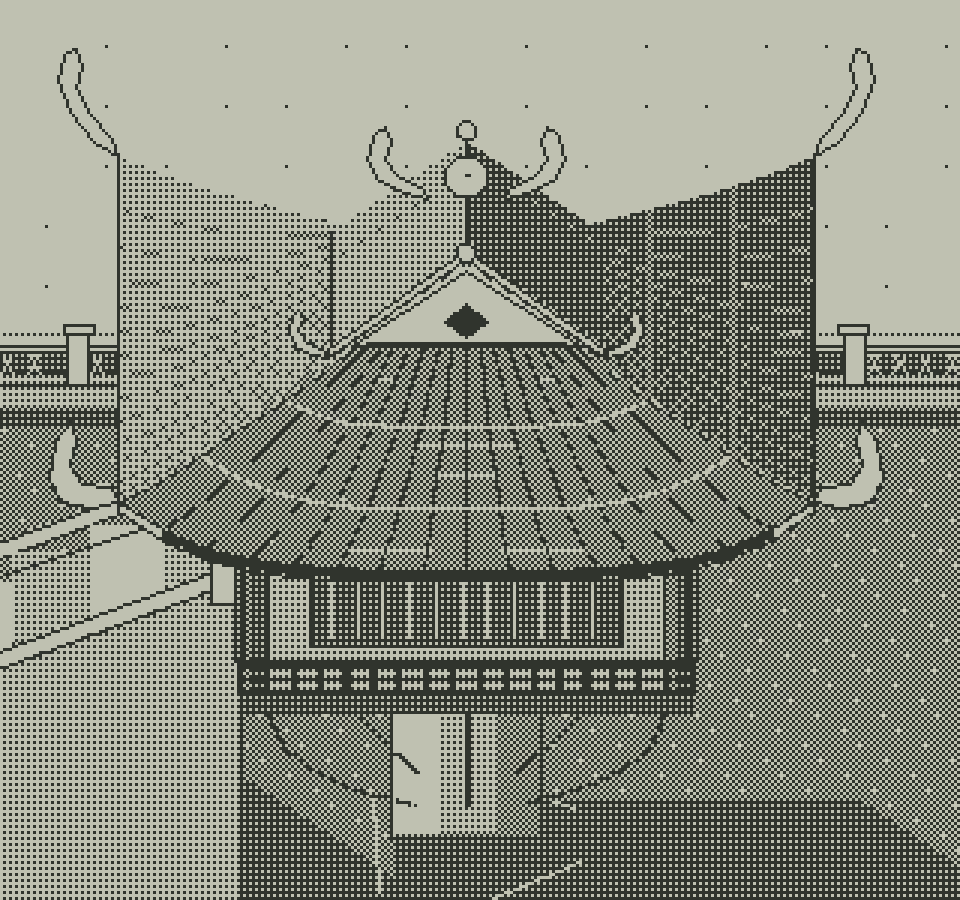
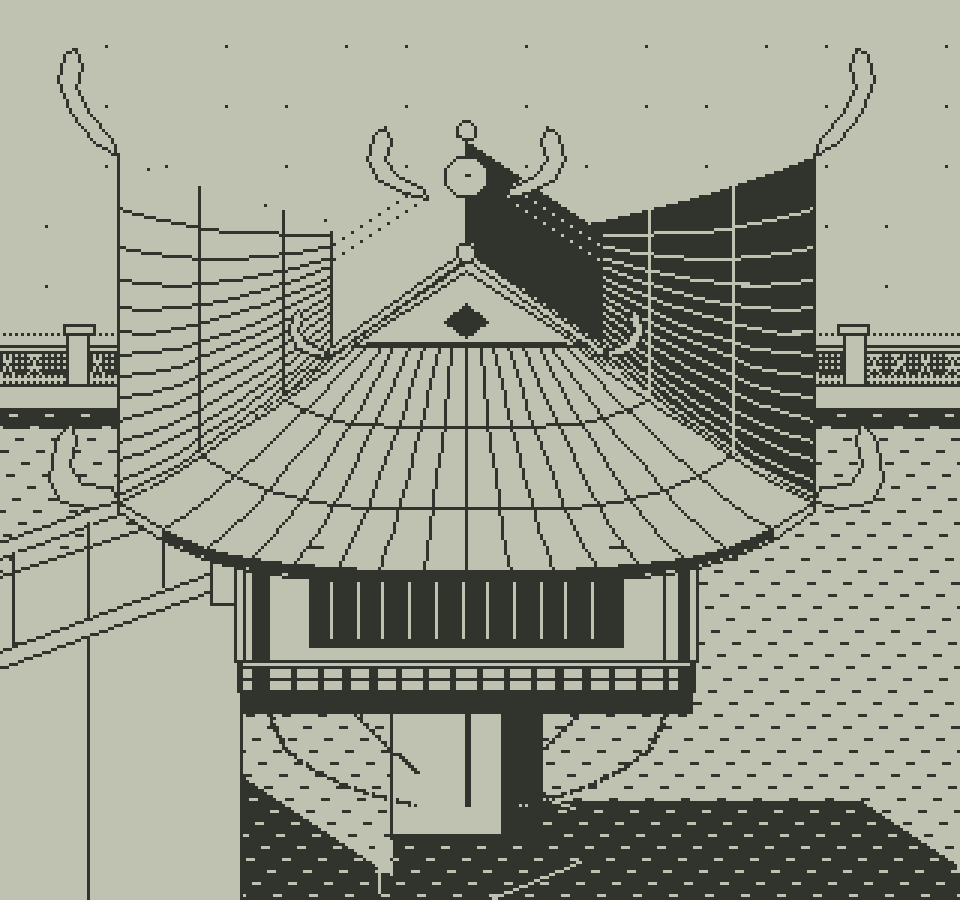
Keep the temple clean on phones and lay a long brick path
The pond, its shadows, the roof and the walls were broad fields of
1-pixel checker dither. Any uneven scaling (phones, shrunk screenshots)
turns those into moire blotches. Large temple surfaces now use solid
ink or paper with sparse lines: the water is paper with ink ripple
dashes, and water in shadow is ink with paper ripples (the Drone's
shadow on the water uses the same look). A test keeps checker pixels
under 3% of each large temple layer.

The path to the temple is now brick laid in running bond and runs from
the stairs' gate all the way to the west edge of the map.

Changed region(s): [[0.0, 0.1867, 1.0, 1.0]]

diff --git a/dist/index.html b/dist/index.html
@@ -1205,17 +1205,20 @@ function carPit(w,g){const c=w.car,q=pitOverlap(w.p,c,g);if(!q)return false;c.x+
 function conePit(o,g){const c=Math.cos(g.angle),s=Math.sin(g.angle),dx=o.x-g.x,dy=o.y-g.y,u=dx*c+dy*s,v=-dx*s+dy*c,r=bodyR(o),x=clamp(u,0,g.w),y=clamp(v,0,g.d);let nx=u-x,ny=v-y,d=Math.hypot(nx,ny),push;
  if(d>=r)return;if(d<1e-8){const faces=[[u,-1,0],[g.w-u,1,0],[v,0,-1],[g.d-v,0,1]].sort((a,b)=>a[0]-b[0]);nx=faces[0][1];ny=faces[0][2];push=r+faces[0][0];}else{nx/=d;ny/=d;push=r-d;}
  const X=nx*c-ny*s,Y=nx*s+ny*c;o.x+=X*(push+.01);o.y+=Y*(push+.01);const speed=o.vx*X+o.vy*Y;if(speed<0){o.vx-=(1+CONE_POST_E)*speed*X;o.vy-=(1+CONE_POST_E)*speed*Y;}}
-// The temple's ground paint (screen px, ink on paper): a swept stone apron round the pond with a dotted kerb, and a paved
-// walk west from the stairs' gate, with staggered joints and dotted gutters either side.
+// The temple's ground paint (screen px, ink on paper): a swept stone apron round the pond with a dotted kerb, and a long
+// brick path laid in running bond (courses along it, staggered joints) from the stairs' gate west to the arena's edge, with
+// solid kerbs and dotted gutters either side. Solid lines only, so it stays crisp at any scale.
+const TEMPLE_BRICK={course:6,len:14};
 function templeGround(gc,layout){
  const T=layout&&layout.temple;if(!T)return;const G=TEMPLE_GEO,s=T.s,o=templeOuter(T),X=u=>Math.round(T.x+u*s),Y=v=>Math.round((T.y+v*s)*K),dot=(x,y)=>gc.fillRect(x,y,1,1);
  const clear=(l,t,r,b)=>{gc.fillStyle=paper;gc.fillRect(l,t,r-l+1,b-t+1);gc.fillStyle=ink;};
  const Ua=o.u/s+G.apron,Va=o.v/s+G.apron,l=X(-Ua),r=X(Ua),t=Y(-Va),b=Y(Va);
  clear(l,t,r,b);for(let x=l;x<=r;x+=2){dot(x,t);dot(x,b);}for(let y=t;y<=b;y+=2){dot(l,y);dot(r,y);}
- const W0=G.walk,gut=W0.v+6,ue=-o.u/s,us=ue-W0.len,wt=Y(-W0.v),wb=Y(W0.v),x0=X(us),x1=X(ue);clear(x0,Y(-gut)-1,l+1,Y(gut)+1);
- for(let x=x0;x<=x1;x++){dot(x,wt);dot(x,wb);if(x%2===0){dot(x,Y(-gut));dot(x,Y(gut));}}for(let y=wt;y<=wb;y++)dot(x0,y);
- for(let k=0,u=us;u<ue-1e-6;k++,u+=12){const xa=X(u),xb=Math.min(x1,X(u+12));if(k)for(let y=wt+1;y<wb;y+=2)dot(xa,y);
-  for(const v of k%2?[-W0.v/2,W0.v/2]:[0])for(let x=xa;x<xb;x++)dot(x,Y(v));}
+ const W0=G.walk,B=TEMPLE_BRICK,gut=W0.v+6,ue=-o.u/s,us=-T.x/s,wt=Y(-W0.v),wb=Y(W0.v),x0=Math.max(0,X(us)),x1=X(ue);clear(x0,Y(-gut)-1,l+1,Y(gut)+1);
+ for(let x=x0;x<=x1;x++){dot(x,wt);dot(x,wb);if(x%2===0){dot(x,Y(-gut));dot(x,Y(gut));}}
+ const rows=Math.max(1,Math.round(2*W0.v/B.course)),rv=k=>-W0.v+k*2*W0.v/rows;
+ for(let k=1;k<rows;k++){const y=Y(rv(k));for(let x=x0;x<=x1;x++)dot(x,y);}
+ for(let k=0;k<rows;k++){const ya=Y(rv(k)),yb=Y(rv(k+1));for(let u=ue-(k%2?B.len/2:B.len);u>us;u-=B.len){const x=X(u);if(x<x0)break;for(let y=ya+1;y<yb;y++)dot(x,y);}}
 }
 function drawGround(gc,A,layout){
  const W=A.W,H=A.H,dot=(x,y)=>gc.fillRect(x,y,1,1);
@@ -2577,9 +2580,11 @@ function pitDrawables(w){const g=pitStopGeometry(w.arena,w.layout);if(!g)return 
 // The temple's layers, raw rasters sharing one anchor (ax, ay) at the pond centre's ground point, each sorted at its own front
 // ground line: pond (coping, water, the shadows on the water, back and side fences; at the back fence), stairs (at their
 // south wall), pavilion (pillar, struts, shrine and roofs; at the veranda's front), front (the front fence) and shadow (the
-// fence's shadow on the ground). Two inks only: stone is paper with dotted joints, the water the middle dither with
-// paper glints (a darker dither in shadow), lacquered wood the dark dither with paper lattice, roof tiles the middle dither
-// with ink channels, gilt and plaster paper with ink outlines; faces toward the light (up-left) a step lighter.
+// fence's shadow on the ground). Two inks only. Large surfaces use solid ink or paper with sparse lines, never a fine
+// dither: a 1-px checker over a big area breaks into moire blotches whenever the view is scaled by an uneven factor (phones,
+// shrunk screenshots). The water is paper with ink ripple dashes, and water in shadow the inverse (ink with paper dashes);
+// lacquered wood and shaded roof slopes are ink with paper lines, lit slopes and stone paper with ink lines; fine dithers are
+// kept to small trims.
 const TEMPLE_LAYERS=['pond','stairs','pavilion','front','shadow'];
 function templeArt(T){
  const G=TEMPLE_GEO,s=T.s,size=Math.ceil(520*s)+40,ax=Math.ceil(240*s)+20,ay=Math.ceil(200*s)+20,L={};
@@ -2612,14 +2617,15 @@ function templeArt(T){
 
  // Pond: the stone coping, the back wall's inner face, the water with glints, the shadows cast on the water, the front coping.
  flat(pond,-U-Rm,U+Rm,-V-Rm,V+Rm,Pd.coping,1);
- for(let u=-U+20;u<U;u+=40){line(pond,[u,-V-Rm,Pd.coping],[u,-V,Pd.coping],.5);}
- face(pond,-U,U,-V,Pd.water,Pd.coping,.75);
+ for(let u=-U+20;u<U;u+=40){line(pond,[u,-V-Rm,Pd.coping],[u,-V,Pd.coping],0);}
+ face(pond,-U,U,-V,Pd.water,Pd.coping,1);
  const w0=P(-U,-V,Pd.water),w1=P(U,V,Pd.water),wl=Math.ceil(w0[0]),wr=Math.floor(w1[0]),wt=Math.ceil(w0[1]),wb=Math.floor(w1[1]);
- flat(pond,-U,U,-V,V,Pd.water,.5,false);
- for(let y=wt+2;y<wb;y+=5)for(let x=wl+1;x<wr;x++)if((x*7+Math.floor(y/5)*29)%31<3)pond.pixel(x,y,1);
+ // Ripple dashes 3 px long every 4th row, staggered: the same pattern in lit water (ink on paper) and in shade (paper on ink).
+ const ripple=(x,y)=>(y-wt)%4===2&&(x+5*Math.floor((y-wt)/4))%12<3,water=(x,y,shade)=>pond.pixel(x,y,ripple(x,y)===!shade?0:1);
+ for(let y=wt;y<=wb;y++)for(let x=wl;x<=wr;x++)water(x,y,false);
  // Shadows on the water (light from the up-left): onto the water plane, in a darker dither than the water itself.
  const W=(u,v,z)=>{const p=P(u,v,Pd.water);return [p[0]+LIGHT.x*(z-Pd.water)*s,p[1]+LIGHT.y*(z-Pd.water)*s];};
- const shaded=new Uint8Array(size*size),onWater=(x,y)=>{if(x>=wl&&x<=wr&&y>=wt&&y<=wb){pond.pixel(x,y,.25);shaded[y*size+x]=1;}};
+ const shaded=new Uint8Array(size*size),onWater=(x,y)=>{if(x>=wl&&x<=wr&&y>=wt&&y<=wb){water(x,y,true);shaded[y*size+x]=1;}};
  const cast=pts=>pond.poly(hull(pts.map(q=>W(...q))),0,false,onWater);
  const R=G.roof,Gb=G.gable,fl=G.floor,st=G.stairs,pl=G.pillar;
  cast(box3(-pl.r,pl.r,-pl.r,pl.r,Pd.water,pl.z));cast(box3(-fl.u,fl.u,-fl.u,fl.u,pl.z,R.z));
@@ -2627,8 +2633,8 @@ function templeArt(T){
  cast([[-U,-st.wall,Pd.water],[-U,st.wall,Pd.water],[-U,-st.wall,8],[-U,st.wall,8],[st.u1,-st.wall,Pd.water],[st.u1,st.wall,Pd.water],[st.u1,-st.wall,fl.z+8],[st.u1,st.wall,fl.z+8]]);
  for(const [u0,u1,v0,v1] of [[-uf,uf,-vf-1,-vf+1],[-uf-1,-uf+1,-vf,vf]])cast(box3(u0,u1,v0,v1,Pd.coping,F.post));
  for(const u of [-U-Rm,U])flat(pond,u,u+Rm,-V-Rm,V+Rm,Pd.coping,1);
- flat(pond,-U-Rm,U+Rm,V,V+Rm,Pd.coping,1);face(pond,-U-Rm,U+Rm,V+Rm,0,Pd.coping,.75);
- for(let u=-U+20;u<U;u+=40)line(pond,[u,V,Pd.coping],[u,V+Rm,Pd.coping],.5);
+ flat(pond,-U-Rm,U+Rm,V,V+Rm,Pd.coping,1);face(pond,-U-Rm,U+Rm,V+Rm,0,Pd.coping,1);
+ for(let u=-U+20;u<U;u+=40)line(pond,[u,V,Pd.coping],[u,V+Rm,Pd.coping],0);
  // Back and side fences.
  fence(pond,-uf,uf,-vf,{l:1,r:1});sideFence(pond,-uf,-vf,-F.gap);sideFence(pond,-uf,F.gap,vf);sideFence(pond,uf,-vf,vf);
 
@@ -2640,19 +2646,19 @@ function templeArt(T){
  for(const [du,dv] of [[-1,-1],[1,-1],[0,-1]])strut(pv,[du*pl.r*.7,dv*pl.r*.7,pl.z*.2],[du*reach,dv*reach,pl.z]);
  for(let k=0;k<3;k++){const a=k*TAU/3+.3;line(pv,[Math.cos(a)*pl.r*1.6,Math.sin(a)*pl.r*1.6,Pd.water],[Math.cos(a+1.4)*pl.r*1.6,Math.sin(a+1.4)*pl.r*1.6,Pd.water],1);}
  const col=(u0,u1,shade)=>poly(pv,[[u0,0,Pd.water],[u1,0,Pd.water],[u1,0,pl.z],[u0,0,pl.z]],shade,false);
- col(-pl.r,pl.r,.75);col(-pl.r,-pl.r*.35,1);col(pl.r*.4,pl.r,.5);
- for(const u of [-pl.r,pl.r])line(pv,[u,0,Pd.water],[u,0,pl.z]);for(const z of [Pd.water+1,pl.z-4])line(pv,[-pl.r,0,z],[pl.r,0,z],.5);
+ col(-pl.r,pl.r,1);col(pl.r*.45,pl.r,0);
+ for(const u of [-pl.r,pl.r])line(pv,[u,0,Pd.water],[u,0,pl.z]);for(const z of [Pd.water+1,pl.z-4])line(pv,[-pl.r,0,z],[pl.r,0,z],0);
  for(const [du,dv] of [[-1,0],[1,0],[-1,1],[1,1],[0,1]])strut(pv,[du*pl.r*.7,dv*pl.r*.7,pl.z*.2],[du*reach,dv*reach,pl.z]);
 
  // The shrine: floor, back columns, the lattice room, front columns, and the veranda railing (open where the stairs arrive).
- flat(pv,-fl.u,fl.u,-fl.u,fl.u,fl.z,.75);face(pv,-fl.u,fl.u,fl.u,pl.z,fl.z,.25);
- const C=G.column,post=(u,v,z0,z1)=>{face(pv,u-C.r,u+C.r,v+C.r,z0,z1,.25,false);face(pv,u-C.r,u-C.r*.2,v+C.r,z0,z1,.5,false);line(pv,[u-C.r,v+C.r,z0],[u-C.r,v+C.r,z1]);line(pv,[u+C.r,v+C.r,z0],[u+C.r,v+C.r,z1]);};
+ flat(pv,-fl.u,fl.u,-fl.u,fl.u,fl.z,1);face(pv,-fl.u,fl.u,fl.u,pl.z,fl.z,0);
+ const C=G.column,post=(u,v,z0,z1)=>{face(pv,u-C.r,u+C.r,v+C.r,z0,z1,0,false);face(pv,u-C.r,u-C.r*.2,v+C.r,z0,z1,1,false);line(pv,[u-C.r,v+C.r,z0],[u-C.r,v+C.r,z1]);line(pv,[u+C.r,v+C.r,z0],[u+C.r,v+C.r,z1]);};
  for(const u of [-C.u,C.u])post(u,-C.u,fl.z,R.z);
- const rm=G.room;face(pv,-rm.u,rm.u,rm.u,fl.z,rm.z,.25);
+ const rm=G.room;face(pv,-rm.u,rm.u,rm.u,fl.z,rm.z,0);
  for(let u=-rm.u+5;u<rm.u-2;u+=6)line(pv,[u,rm.u+.2,fl.z+3],[u,rm.u+.2,rm.z-8],1);line(pv,[-rm.u+2,rm.u+.2,rm.z-5],[rm.u-2,rm.u+.2,rm.z-5],1);
  for(const u of [-C.u,C.u])post(u,C.u,fl.z,R.z);
- const fz=fl.z,rail=(u0,u1)=>{face(pv,u0,u1,fl.u,fz+7,fz+9,.25);line(pv,[u0,fl.u+.1,fz+4],[u1,fl.u+.1,fz+4]);for(let u=u0;u<=u1+1e-6;u+=(u1-u0)/Math.max(1,Math.round((u1-u0)/6)))face(pv,u-.8,u+.8,fl.u+.1,fz,fz+7,0,false);};
- rail(-fl.u,fl.u);for(const u of [-fl.u,fl.u])flat(pv,u-1,u+1,-fl.u,fl.u,fz+9,.25);
+ const fz=fl.z,rail=(u0,u1)=>{face(pv,u0,u1,fl.u,fz+7,fz+9,1);line(pv,[u0,fl.u+.1,fz+4],[u1,fl.u+.1,fz+4]);for(let u=u0;u<=u1+1e-6;u+=(u1-u0)/Math.max(1,Math.round((u1-u0)/6)))face(pv,u-.8,u+.8,fl.u+.1,fz,fz+7,0,false);};
+ rail(-fl.u,fl.u);for(const u of [-fl.u,fl.u])flat(pv,u-1,u+1,-fl.u,fl.u,fz+9,1);
 
  // Lower roof: a hip roof whose slopes curve up from the curled eaves (z grows as t^1.5) to the base of the gable roof.
  // Each slope is a grid of quads from its eave edge e(a) to its top edge r(a), a in -1..1.
@@ -2664,19 +2670,19 @@ function templeArt(T){
  const M=16,N=8,slope=(f,shade,channels)=>{
   for(let i=0;i<M;i++)for(let j=0;j<N;j++){const a0=-1+2*i/M,a1=-1+2*(i+1)/M,t0=j/N,t1=(j+1)/N;poly(pv,[at(f,a0,t0),at(f,a1,t0),at(f,a1,t1),at(f,a0,t1)],shade,false);}
   if(channels!==null)for(let i=1;i<M;i++){const a=-1+2*i/M;for(let j=0;j<N;j++)line(pv,at(f,a,j/N),at(f,a,(j+1)/N),channels);}
-  for(const t of [.35,.7])for(let i=0;i<M;i++)line(pv,at(f,-1+2*i/M,t),at(f,-1+2*(i+1)/M,t),shade<.5?.5:1);
+  for(const t of [.35,.7])for(let i=0;i<M;i++)line(pv,at(f,-1+2*i/M,t),at(f,-1+2*(i+1)/M,t),shade<.5?1:0);
   for(let i=0;i<M;i++)line(pv,at(f,-1+2*i/M,0),at(f,-1+2*(i+1)/M,0));};
  const rib=(f,a)=>{for(let j=0;j<N;j++){const p=P(...at(f,a,j/N)),q=P(...at(f,a,(j+1)/N));pv.line(p,q,1);pv.line([p[0]-Math.sign(a),p[1]],[q[0]-Math.sign(a),q[1]],0);}};
- slope(slopes.back,.25,null);
+ slope(slopes.back,0,null);
  for(const k of [-1,1])horn(pv,[k*R.u,-R.v,curl(1)],k,-.7,1.7);
- slope(slopes.west,.75,.5);slope(slopes.east,.25,.5);
+ slope(slopes.west,1,0);slope(slopes.east,0,1);
 
  // Gable roof on top: its two slopes, the plastered front gable with a dark medallion, and paper bargeboards.
  const g0=R.tz-2,gw=Gb.u,gs=(k,shade,channels)=>{const n=8;for(let i=0;i<n;i++){const v0=-Gb.v+2*Gb.v*i/n,v1=-Gb.v+2*Gb.v*(i+1)/n;
    poly(pv,[[k*gw,v0,g0],[k*gw,v1,g0],[0,v1,Gb.z],[0,v0,Gb.z]],shade,false);if(channels!==null)line(pv,[k*gw,v1,g0],[0,v1,Gb.z],channels);}
   line(pv,[k*gw,-Gb.v,g0],[k*gw,Gb.v,g0]);};
- gs(-1,.75,.5);gs(1,.25,.5);
- slope(slopes.front,.5,0);
+ gs(-1,1,0);gs(1,0,1);
+ slope(slopes.front,1,0);
  for(const a of [-1,1])rib(slopes.front,a);
  for(let i=0;i<M;i++){const a0=-1+2*i/M,a1=-1+2*(i+1)/M,p=at(slopes.front,a0,0),q=at(slopes.front,a1,0);poly(pv,[p,q,[q[0],q[1],q[2]-3],[p[0],p[1],p[2]-3]],Math.abs(a0+a1)>1.7?1:0);}
  for(const k of [-1,1])horn(pv,[k*R.u,R.v,curl(1)],k,.7,1.95);
@@ -2694,21 +2700,21 @@ function templeArt(T){
  const u0=-U-Rm,u1=st.u1,zt=fl.z,run=u1-u0,d=run/st.n,rise=zt/st.n,parapet=(v0,v1)=>poly(sr,[[u0,v0,8],[u1,v0,zt+8],[u1,v1,zt+8],[u0,v1,8]],1);
  const ends=v=>{for(const [u,z] of [[u0+3.5,0],[u1-3.5,zt]]){face(sr,u-3,u+3,v+3,z,z+14,1);ball(sr,u,v+3.1,z+14,3);}};
  parapet(-st.wall,-st.v);ends(-(st.wall+st.v)/2);
- for(let k=0;k<st.n;k++){const a=u0+k*d,z=(k+1)*rise;flat(sr,a,a+d,-st.v,st.v,z,k%2?.75:1,false);}
+ for(let k=0;k<st.n;k++){const a=u0+k*d,z=(k+1)*rise;flat(sr,a,a+d,-st.v,st.v,z,1,false);line(sr,[a,-st.v,z],[a,st.v,z]);}
  line(sr,[u0,-st.v,rise],[u1,-st.v,zt]);
  parapet(st.v,st.wall);
- poly(sr,[[u0,st.wall,0],[-U,st.wall,0],[-U,st.wall,Pd.water],[u1,st.wall,Pd.water],[u1,st.wall,zt+8],[u0,st.wall,8]],.75);
- for(let k=1;k<5;k++){const f=k/5,a=u0+run*f;line(sr,[a,st.wall+.1,Pd.water+1],[a,st.wall+.1,8+zt*f-1],.5);}
+ poly(sr,[[u0,st.wall,0],[-U,st.wall,0],[-U,st.wall,Pd.water],[u1,st.wall,Pd.water],[u1,st.wall,zt+8],[u0,st.wall,8]],1);
+ for(let k=1;k<5;k++){const f=k/5,a=u0+run*f;line(sr,[a,st.wall+.1,Pd.water+1],[a,st.wall+.1,8+zt*f-1],0);}
  ends((st.wall+st.v)/2);
 
  // Front fence, and the ball-topped posts either side of the stairs' gate in the west fence.
  fence(front,-uf,uf,vf,{l:1,r:1});
  for(const v of [-F.gap,F.gap]){face(pond,-uf-3.5,-uf+3.5,v+3.5,0,F.post+2,1);ball(pond,-uf,v+3.6,F.post+2,3.2);}
 
- // waterShade: the open water (not under the coping, not already in the temple's shadow) in the shade dither. draw() shows
+ // waterShade: the open water (not under the coping, not already in the temple's shadow) in its shaded look. draw() shows
  // it through a flying Drone's shadow, so the shadow falls on the pond but adds nothing where the temple already shades it.
  const ws=raster(size,ax,ay),wsb=Math.min(wb,Math.floor(P(0,V,Pd.coping)[1])-1);
- for(let y=wt;y<=wsb;y++)for(let x=wl;x<=wr;x++)if(!shaded[y*size+x])ws.pixel(x,y,.25);
+ for(let y=wt;y<=wsb;y++)for(let x=wl;x<=wr;x++)if(!shaded[y*size+x])ws.pixel(x,y,ripple(x,y)?1:0);
  const out={ax,ay,waterShade:ws.finish(true)};for(const k of TEMPLE_LAYERS)out[k]=L[k].finish(true);return out;
 }
 function templeDrawables(w){const T=w.layout&&w.layout.temple;if(!T)return [];const G=TEMPLE_GEO,P=G.pond,x=Math.round(T.x),y=Math.round(T.y*K),at=v=>Math.round((T.y+v*T.s)*K);
@@ -2826,7 +2832,7 @@ if(typeof document==='undefined'){if(typeof module!=='undefined'){
  module.exports={BURN_SPEED,GEARS,AUTO_GEARS,MANUAL_GEARS,PADDLE_GEARS,PADDLE_SEQ,isPaddle,REV_SHIFT,SHIFT_AT,isManual,shiftOk,gearStep,gearName,shiftGear,gearTelemetry,WIDTH,HEIGHT,K,Z,WORLD_H,STEP,SIM_SPEED,TAU,PRESETS,CAR_ART,FRAMES,SHADOW_INK,LIGHT,DEFAULT_ARENA,edgeClear,CROSS_GAP,carBoxAll,SPAWN_INSIDE,CONE_COUNT,CONE_R,CONTROL_ZONES,keepOuts,layoutCourse,drawGround,resetCones,TRANSFER_MARGIN,CONE_BOX,transferBody,transferEdges,sceneItems,carDrawable,mobileCarArtScale,scaleArtBox,portraitCarArt,carArtBox,gateDrawables,drawOrder,SKID,createTrackRecorder,breakTracks,recordTracks,coneSprite,coneShadowSprite,CONE_H,archShape,inArch,gateArt,GATE_SPLIT,GATE_FRONT,plotLine,frameIndex,carModel,carShadowPolys,frameBounds,spriteBox,raster,carSprite,carShadow,buildCarAtlases,makeArena,normalizeInput,keysToInput,carScreenBounds,resizeWorld,wrap,delta,angleDelta,createWorld,drive,step,carCone,coneCone,position,wheelPoints,SPEED_CAP,OMEGA_MAX,CONE_MAX,FASTEST,SUB_MOVE,gatePosts,carPost,conePost,substeps,limitVelocity,ROLL_STEPS,ROLL_G,LOAD_W,LOAD_ZETA,IMPACT_GAIN,TIP_COMMIT,TIP_DROP,TIP_MIN,TIP_SOFT,ROLL_SPIN,ROLL_DECEL,ROLL_SETTLE,ROLL_FRICTION,REST_SPEED,RECOVER_TIME,RECOVER_GAP,CAR_STATES,uprightState,rollKappa,tipAngle,tumble,rollover,rollFrame,rolledModel,rollShadowPolys,rollSpritePoints,rollFrameBounds,rollSpriteBox,carRollSprite,carRollShadow,carHidden,canRecover,recover,recoverSpot,boxDistance};
  Object.assign(module.exports,{raceRoute,raceProject,raceCross,raceNew,raceMove,raceTime,raceRank,raceBetter,raceFingerprint,raceRecords,raceSave,RACE_VERSION});
  Object.assign(module.exports,{setTrack,TUNING,TUNING_SPEC,TUNING_DEFAULTS,setTuning,resetTuning}); // shared tuning interface
- Object.assign(module.exports,{canvasRendering,LIGHT,TEMPLE_GEO,TEMPLE_LAYERS,TEMPLE_SCALE,TEMPLE_TITLE,templeOuter,templeThumb,templeTitleRect,buildTemple,templeRect,templeClearance,templeTopY,templeParts,templeBlocks,templeArt,templeDrawables,templeHides,templeGround,visibleBounds,cameraGeometry,mobileCameraGeometry,titleRotation,renderMetrics,titleRasterSpec,groundDots,pitStopGeometry,pitPoint,gasPumpPoint,pitPosts,pitOverlap,carPit,conePit,drawPitBay,pitArt,pitDrawables,VIEW_SHORT,computeView,createControls,UI_MARGIN,UI_GAP,uiMetrics,controlZones,WHEEL_DEAD,turnDelta,pointerAngle,wheelDrag,wheelValue,wheelKickback,createModes,recoverAvailable,tryRecover,isRecoverKey,recoverFromKey}); // ui (r2-ui)
+ Object.assign(module.exports,{canvasRendering,TEMPLE_BRICK,LIGHT,TEMPLE_GEO,TEMPLE_LAYERS,TEMPLE_SCALE,TEMPLE_TITLE,templeOuter,templeThumb,templeTitleRect,buildTemple,templeRect,templeClearance,templeTopY,templeParts,templeBlocks,templeArt,templeDrawables,templeHides,templeGround,visibleBounds,cameraGeometry,mobileCameraGeometry,titleRotation,renderMetrics,titleRasterSpec,groundDots,pitStopGeometry,pitPoint,gasPumpPoint,pitPosts,pitOverlap,carPit,conePit,drawPitBay,pitArt,pitDrawables,VIEW_SHORT,computeView,createControls,UI_MARGIN,UI_GAP,uiMetrics,controlZones,WHEEL_DEAD,turnDelta,pointerAngle,wheelDrag,wheelValue,wheelKickback,createModes,recoverAvailable,tryRecover,isRecoverKey,recoverFromKey}); // ui (r2-ui)
  Object.assign(module.exports,{PAINT_SLANT,PAINT_STRIPE,PAINT_SOLID_BELOW,PAINT_KEY_SOLID_BELOW,PAINT_COPY,GLYPHS,glyphMask,shearMask,maskRuns,keycapRuns,wrapPhrases,paintLayout,paintRuns,drawPaint}); // ground paint (r2-paint)
  Object.assign(module.exports,{buildCourse,fitTrack,roundedPath,circuitVerts,laneHalf,laneSelfClear,gateSpot,trackMarks,LANE_PAD,LANE_GAP,GATE_LEAD,TRACK_STEP,CONE_OFF,inGate,TRACKS,TRACK_SHAPES,TRACK_HALF,TRACK_FILL,shapeUnit,trackSelfClear,insideLoop,titleSpot,trackRadiusOk,TRACK_MIN_R}); // sim + course extra exports (r2-sim)
  Object.assign(module.exports,{wheelLimit,wheelInput,wheelAngle,GEAR_GATE,STICK_VB,gearSlot,stickMove,mobileStickMove,stickSlot,simpleAutoInput,stickPath,AUTO_GATE,autoSlot,autoMove,autoSlotAt,autoPath,stickGate,pathPoint,shiftBarW,TUNING_STORE,loadTuning,saveTuning,tuningGroups,uiPx,SPEED_EM,speedFit,shiftKeyW,shiftKeyGap,shiftKeyLayout,gearCues,trackThumbSize,trackThumb}); // ui extra exports (r2-ui, r3-ui)

diff --git a/README.md b/README.md
@@ -77,7 +77,7 @@ Ranked time is `elapsedSeconds + 0.02 × (100 − quality)²`; lower wins. Perso
 
 ## The Temple map
 
-**Temple** is a free-drive map, like the parking lot: no road, race gate, cones or pit garage, and no lap timer. It has only the One Pillar Pagoda (Chùa Một Cột), shown with its own painted title, **8-BIT TEMPLE**. The shrine is shaped like a lotus rising from a square pond. It stands on a single stone pillar, which carries the floor on curved wooden struts. It has a lattice room, a veranda railing, a curved tiled roof with upturned corners, and a small gable on top crowned by a gilt pearl between two dragons. A stone-coped pond with a balustrade fence surrounds it. A short flight of ten broad stairs climbs from a gate in the west fence to the veranda, and a paved walk leads to that gate.
+**Temple** is a free-drive map, like the parking lot: no road, race gate, cones or pit garage, and no lap timer. It has only the One Pillar Pagoda (Chùa Một Cột), shown with its own painted title, **8-BIT TEMPLE**. The shrine is shaped like a lotus rising from a square pond. It stands on a single stone pillar, which carries the floor on curved wooden struts. It has a lattice room, a veranda railing, a curved tiled roof with upturned corners, and a small gable on top crowned by a gilt pearl between two dragons. A stone-coped pond with a balustrade fence surrounds it. A short flight of ten broad stairs climbs from a gate in the west fence to the veranda, and a long brick path, laid in running bond, leads to that gate from the west edge of the map.
 
 ![The Temple map, rendered from the game's drawing code](docs/images/temple-map.png)
 
@@ -85,7 +85,7 @@ Ranked time is `elapsedSeconds + 0.02 × (100 − quality)²`; lower wins. Perso
 
 - Every vehicle, the Drone included, starts on the painted **8-BIT TEMPLE** title, facing west along it.
 - The pond and its fence are solid for cars, from every side. The Drone can climb over the fence and fly over the water. It can't fly through the stairs or the shrine, which is taller than it can fly.
-- Light falls from the upper left, as everywhere in the game. The shrine, pillar, stairs and fence cast darker shadows on the water. A flying Drone's shadow falls on the open water too, but adds nothing where the water is already in the temple's shadow (`drawWaterShadow`, `waterShade`). Cars behind the pond or the shrine are hidden by them.
+- Light falls from the upper left, as everywhere in the game. The water is paper with ink ripple dashes; in shadow it turns to ink with paper ripples. The shrine, pillar, stairs and fence cast these shadows on the water. A flying Drone's shadow falls on the open water too, but adds nothing where the water is already in the temple's shadow (`drawWaterShadow`, `waterShade`). Cars behind the pond or the shrine are hidden by them.
 - The stairs come in from the side, because this camera looks down steeply: stairs from the front would hide the pillar. For the same reason, the roof overhangs less at the front than at the sides.
 - Sizes are in `TEMPLE_GEO`, and the map is built by `buildTemple`. The temple is drawn at 1.45× on the fixed 1350 × 675 world, centred together with its title.
 - On a phone held upright, the whole map is drawn turned 90°. The title is turned back upright and moved east of the pond, above the controls, to fit; the buildings stay turned, like the pit garage on the road courses.
@@ -106,6 +106,7 @@ Read this before drawing anything new. Everything on screen is drawn in code, in
 
 - **Two inks only.** Ink `#30342d` (`INK = [48,52,45]`) and paper `#bfc1b1` (`PAPER = [191,193,177]`). Every sprite pixel is one or the other, fully opaque. Tests check this.
 - **Shades are ordered dithers** in `raster()`: `0` solid ink, `.25`, `.5` and `.75` (2×2 Bayer, more paper as the number rises), `1` solid paper.
+- **Keep fine dithers to small parts.** A large field of 1-pixel checker breaks into moiré blotches whenever the view is scaled unevenly (phones, shrunk screenshots). Large surfaces use solid ink or paper with sparse lines instead, like the temple's water, roof and walls; a test enforces this for the temple.
 - **Shadows** use their own denser 4×4 dither (`shadowPixel`, 55% ink, `SHADOW_INK`), never a shade value.
 - **Outlines**: one-pixel ink outlines on filled shapes (`poly(points, shade, true)`). Dotted lines (`line(a, b, .5)`) are used for stone joints and guide markings.
 - **Ground**: paper with a sparse grid of single ink dots (`groundDots`). Road edges are 1 px, the centre guide is 2 px dashes.

diff --git a/tasks/CURRENT_STATE.md b/tasks/CURRENT_STATE.md
@@ -1,4 +1,4 @@
-Temple map — November 2, 2026: a fifth map, **Temple** (`temple`, between Figure eight and Parking lot), is free drive like parking: no road, gate, cones, pit or race (`raceRoute` is null). It shows the One Pillar Pagoda: a lotus-like shrine on a single stone pillar with curved struts, a lattice room, veranda railing, a curved hip roof with upturned corners and a small front gable with gilt ridge ornaments, in a stone-coped pond with a balustrade fence. Ten broad stairs climb from a gate in the west fence (side-on, so they never hide the pillar), and a paved walk leads west from it. Every vehicle starts on the painted title, facing west. A flying Drone's shadow is drawn on the open water after the pond layer (`drawWaterShadow` fills the shadow's footprint with `waterShade`, the open water in the shade dither), so it shows on lit water and not where the temple already shades it. The painted title reads **8-BIT TEMPLE** (`TEMPLE_TITLE`, under the pond; east of the pond in portrait). `TEMPLE_GEO` holds every size and `buildTemple` places it at `TEMPLE_SCALE` (1.45×) on the fixed world. Colliders are three oriented boxes (`layout.temple.blocks`, pit-style): the fenced pond (the Drone clears it above the fence), the stairs and the shrine (taller than the Drone flies). Art (`templeArt`) has pond, stairs, pavilion, front and shadow layers, sorted at their own front lines; shadows on the water are drawn into the pond layer in a darker dither. Recovery, the Settings thumbnail (`templeThumb`) and a high Drone behind the shrine (`templeHides`) account for it; the track picker uses three columns. In portrait phones the buildings are drawn turned with the map, like the pit garage. Seven checks in `verify-current.cjs` cover it; `.github/workflows/pages.yml` now confirms after each deploy that the live page matches the commit; `snapshot.cjs` and the README art style guide (images in `docs/images`) were added.
+Temple map — November 2, 2026: a fifth map, **Temple** (`temple`, between Figure eight and Parking lot), is free drive like parking: no road, gate, cones, pit or race (`raceRoute` is null). It shows the One Pillar Pagoda: a lotus-like shrine on a single stone pillar with curved struts, a lattice room, veranda railing, a curved hip roof with upturned corners and a small front gable with gilt ridge ornaments, in a stone-coped pond with a balustrade fence. Ten broad stairs climb from a gate in the west fence (side-on, so they never hide the pillar), and a long brick path (running bond) leads west from it to the arena's edge. Large temple surfaces avoid fine dithers (water: paper with ink ripples, ink with paper ripples in shadow) so they stay clean when phones scale the view; phones also render the canvas at device resolution (`renderMetrics` with dpr, `canvasRendering`). Every vehicle starts on the painted title, facing west. A flying Drone's shadow is drawn on the open water after the pond layer (`drawWaterShadow` fills the shadow's footprint with `waterShade`, the open water in the shade dither), so it shows on lit water and not where the temple already shades it. The painted title reads **8-BIT TEMPLE** (`TEMPLE_TITLE`, under the pond; east of the pond in portrait). `TEMPLE_GEO` holds every size and `buildTemple` places it at `TEMPLE_SCALE` (1.45×) on the fixed world. Colliders are three oriented boxes (`layout.temple.blocks`, pit-style): the fenced pond (the Drone clears it above the fence), the stairs and the shrine (taller than the Drone flies). Art (`templeArt`) has pond, stairs, pavilion, front and shadow layers, sorted at their own front lines; shadows on the water are drawn into the pond layer in a darker dither. Recovery, the Settings thumbnail (`templeThumb`) and a high Drone behind the shrine (`templeHides`) account for it; the track picker uses three columns. In portrait phones the buildings are drawn turned with the map, like the pit garage. Seven checks in `verify-current.cjs` cover it; `.github/workflows/pages.yml` now confirms after each deploy that the live page matches the commit; `snapshot.cjs` and the README art style guide (images in `docs/images`) were added.
 
 # Current game state
 
